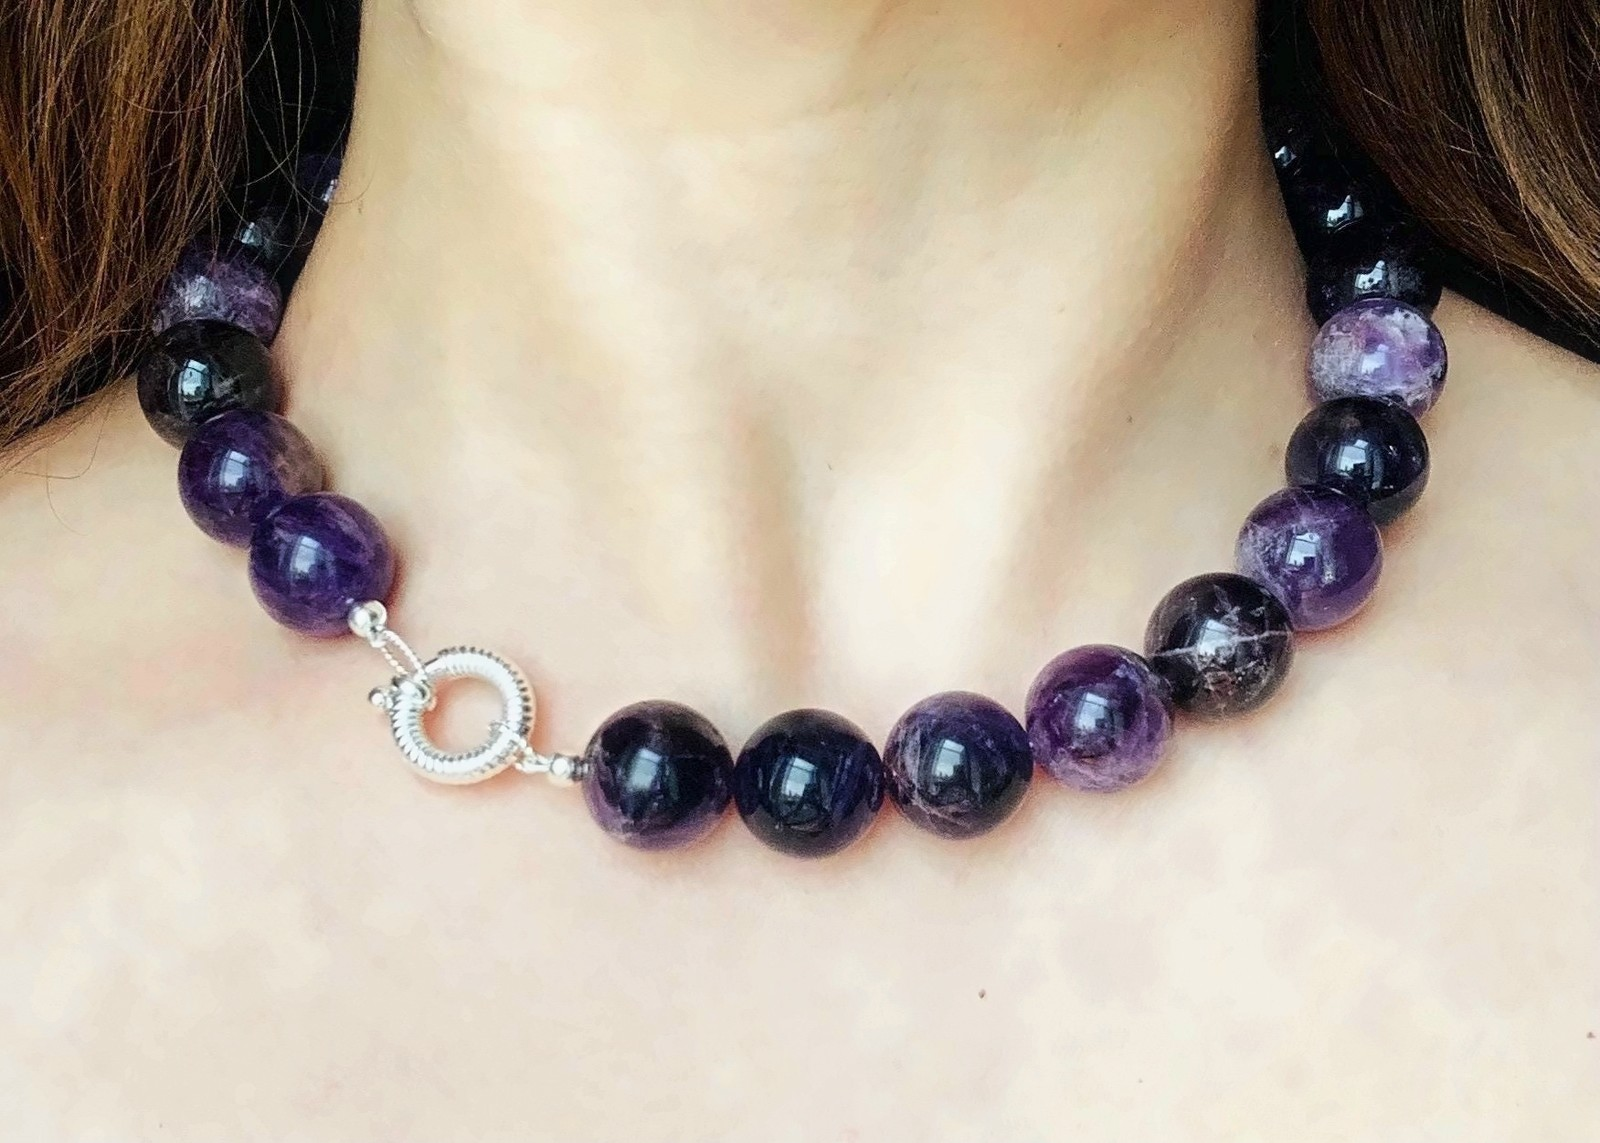
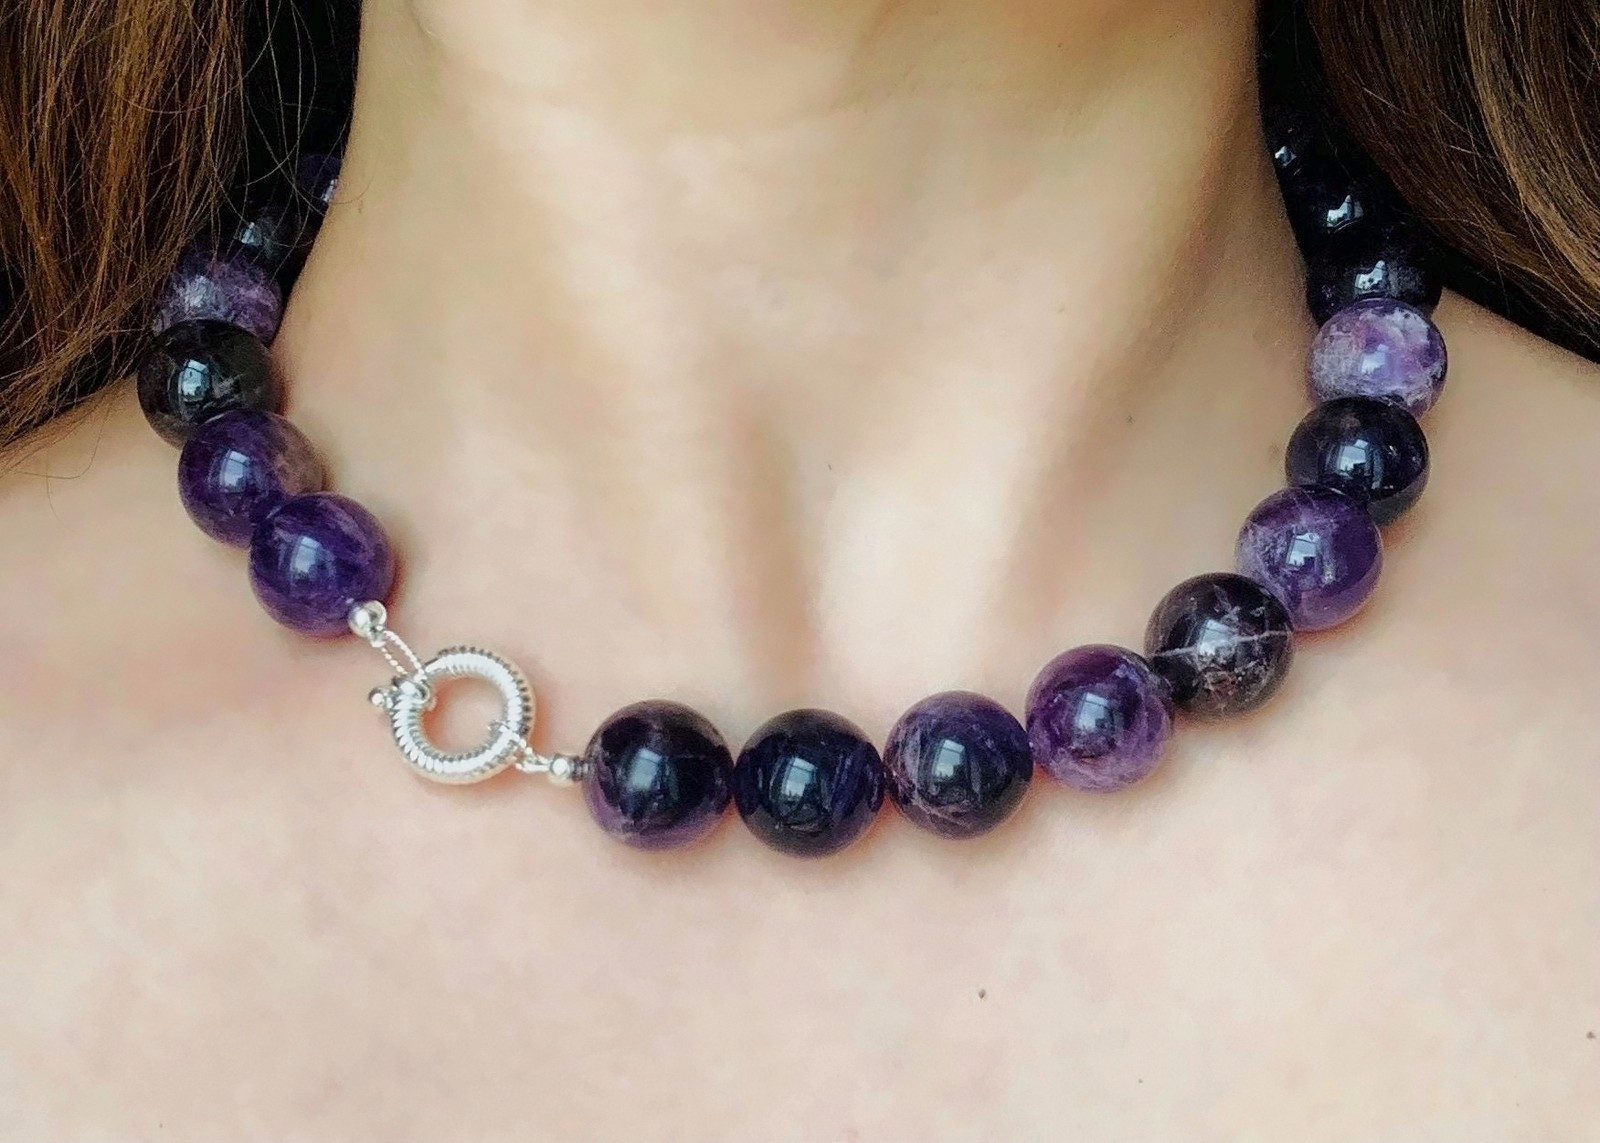
Simone's third round: overlapping hero arches, next-piece preview, natural exposure on worn shots
Home
- The two hero arches are larger and overlap: the painting stands larger and
  higher at the back, the signature necklace comes forward, lower and to the
  left, cut out with a paper rim. On wide screens the arches get more width;
  between 961 and 1320px the old ratio keeps the title on two lines.

Product pages
- A slim tab on the right edge goes to the next piece in the same section
  (wrapping to the first). Hovering or focusing it slides out a preview: photo,
  title, intention (or year and medium for paintings) and price. On phones the
  same preview shows as a card after the product.

Photos
- Cosmic, Brazil, Dune, Arctic, Arctic Bloc and Tigre worn shots brought back
  from the flash glare to a natural exposure, all at one shared skin tone, so
  Cosmic's two shots now match. Stones keep their own color.
- New `largePhotos` field shows chosen photos full width and uncropped.
  Brazil's model photo uses it, and Plumeria's worn photo now does explicitly.

Fix
- Paintings keep their hung order whether sold or not. Last round's sold
  marks had moved five paintings to the end of the Art page.

Claude-Session: https://claude.ai/code/session_016gvNt1CKUVjBpwsVdVswi5

diff --git a/src/lib/catalog.ts b/src/lib/catalog.ts
@@ -88,8 +88,11 @@ export function shortMaterial(p: Product) {
 const SHELF: Category[] = ['necklaces', 'earrings', 'bracelets', 'rings', 'prints', 'cards', 'originals'];
 const JEWELRY = new Set<Category>(['necklaces', 'earrings', 'bracelets', 'rings']);
 
+/** Sold jewelry and art products move to the end; paintings keep their hung order, sold or not. */
+const soldOut = (p: Product) => p.data.status === 'sold' && p.data.category !== 'originals';
+
 export function sortFeatured(a: Product, b: Product) {
-  const sold = Number(a.data.status === 'sold') - Number(b.data.status === 'sold');
+  const sold = Number(soldOut(a)) - Number(soldOut(b));
   if (sold !== 0) return sold;
   if (a.data.featured !== b.data.featured) return a.data.featured ? -1 : 1;
   // `order` is per category, so compare it only within one; otherwise necklaces and paintings interleave.

diff --git a/src/content.config.ts b/src/content.config.ts
@@ -24,6 +24,11 @@ const products = defineCollection({
       intention: z.string().optional(),
       images: z.array(image()).default([]),
       /**
+       * Photos shown large on the product page: full width, uncropped. Numbers count from 1 in
+       * `images` order, so `[2]` is the second photo. Landscape photos are shown this way anyway.
+       */
+      largePhotos: z.array(z.number().int().positive()).default([]),
+      /**
        * Short muted loops, shown second in the gallery. Files live in public/media/products/<slug>/
        * (Astro does not process video), each with a poster frame. See README > Photos and video.
        */

diff --git a/src/content/products/brazil-necklace.md b/src/content/products/brazil-necklace.md
@@ -11,6 +11,7 @@ images:
   - "../../assets/products/brazil-necklace/4.jpg"
   - "../../assets/products/brazil-necklace/5.jpg"
   - "../../assets/products/brazil-necklace/6.jpg"
+largePhotos: [2]
 videos:
   - { src: "/media/products/brazil-necklace/1.mp4", poster: "/media/products/brazil-necklace/1.jpg" }
 etsyImages: ["https://i.etsystatic.com/56491047/r/il/c66606/7928850160/il_fullxfull.7928850160_o08n.jpg","https://i.etsystatic.com/56491047/r/il/b12a3b/8048983521/il_fullxfull.8048983521_82g2.jpg","https://i.etsystatic.com/56491047/r/il/126df2/7905355720/il_fullxfull.7905355720_cf71.jpg","https://i.etsystatic.com/56491047/r/il/2a4373/7953275305/il_fullxfull.7953275305_4ms0.jpg","https://i.etsystatic.com/56491047/r/il/52cb5d/7923015988/il_fullxfull.7923015988_qx9r.jpg","https://i.etsystatic.com/56491047/r/il/b93134/7929037408/il_fullxfull.7929037408_pso2.jpg","https://i.etsystatic.com/56491047/r/il/979756/7905321134/il_fullxfull.7905321134_fyk4.jpg","https://i.etsystatic.com/56491047/r/il/4d5f6a/8050596612/il_fullxfull.8050596612_c9h4.jpg"]

diff --git a/src/content/products/plumeria-necklace.md b/src/content/products/plumeria-necklace.md
@@ -12,6 +12,7 @@ images:
   - "../../assets/products/plumeria-necklace/4.jpg"
   - "../../assets/products/plumeria-necklace/5.jpg"
   - "../../assets/products/plumeria-necklace/6.jpg"
+largePhotos: [6]
 materials: ["Mother-of-Pearl Shell", "Gold finished brass with 14k gold filled beads"]
 dimensions: "17 ½ in"
 specs:
